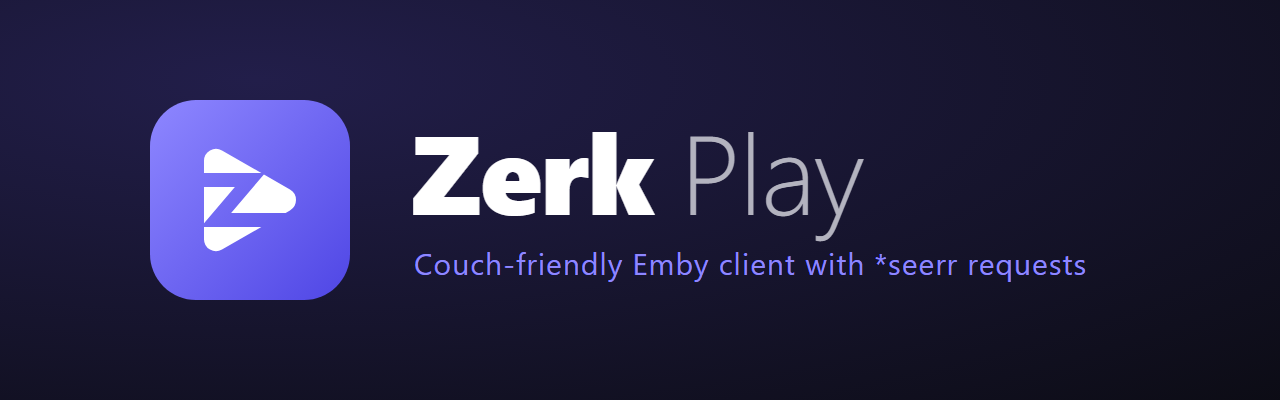
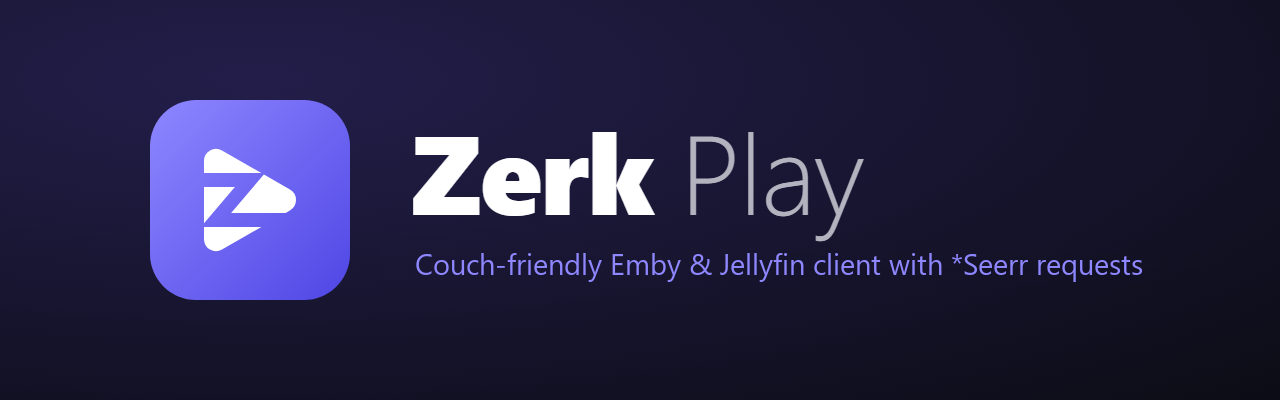
Point the README at the latest release and say *Seerr
The download links went to the first beta. They now open the Releases page, the README no longer calls this the first release, Jellyseerr / Overseerr is now *Seerr throughout, and the banner names Emby & Jellyfin.

Changed region(s): [[0.3125, 0.63, 0.9062, 0.69]]

diff --git a/README.md b/README.md
@@ -4,7 +4,7 @@
 
 <p align="center">
   An Emby / Jellyfin client for <b>Windows</b> and <b>Android TV / Google TV</b>,<br>
-  built around discovery and Jellyseerr / Overseerr requests.
+  built around discovery and *Seerr requests.
 </p>
 
 <p align="center">
@@ -14,16 +14,12 @@
 </p>
 
 <p align="center">
-  <a href="https://github.com/florinp93/Zerk-Play-2.0/releases/download/v2-beta/ZerkPlay-Public-Windows-setup.exe"><b>Download for Windows</b></a>
-  &nbsp;·&nbsp;
-  <a href="https://github.com/florinp93/Zerk-Play-2.0/releases/download/v2-beta/ZerkPlay-Public-Android.apk"><b>Download for Android TV</b></a>
-  &nbsp;·&nbsp;
-  <a href="https://github.com/florinp93/Zerk-Play-2.0/releases">All releases</a>
+  <a href="https://github.com/florinp93/Zerk-Play-2.0/releases"><b>Download the latest release</b></a> for Windows and Android TV
 </p>
 
 ![Home](screenshots/01-home-hero.png)
 
-Zerk Play 2 is a full rewrite, and this is its first public release. It's still in beta, so expect rough edges and please report anything that breaks.
+Zerk Play 2 is a full rewrite and still in beta, so expect rough edges and please report anything that breaks. Installed copies update themselves when a new release is out.
 
 When you open it, it should help you find something to watch, not leave you scrolling a library grid. If what you want isn't on the server yet, you can request it from the same screen.
 
@@ -54,9 +50,9 @@ There's also a **Discover** tab (trending, popular, coming soon), a **Calendar**
 
 ![Discover](screenshots/13-discover.png)
 
-## Requests built in (Jellyseerr / Overseerr)
+## Requests built in (\*Seerr)
 
-Connect Jellyseerr or Overseerr and titles you don't have show up right next to the ones you do:
+Connect \*Seerr and titles you don't have show up right next to the ones you do:
 
 - A **Request** badge on anything not in your library, in every row: home, Discover, search, More like this
 - One **Request** page: pick the seasons, watch the trailer, done
@@ -92,18 +88,18 @@ Add your own Xtream Codes IPTV account to get a proper **TV guide**: channel gro
 
 The whole UI is driven by **D-pad / remote / keyboard** first. It works on Windows too: plug in a gamepad or use the arrow keys, and the mouse cursor hides itself until you move it again. The mouse still works everywhere, with hover and wheel scrolling.
 
-Setup on a TV is painless: **scan a QR code with your phone** and fill in the server, TMDB key and Jellyseerr details there instead of typing with a remote.
+Setup on a TV is painless: **scan a QR code with your phone** and fill in the server, TMDB key and \*Seerr details there instead of typing with a remote.
 
 ![Library](screenshots/20-library-movies.png)
 
 ## Getting started
 
-1. Download the [Windows installer](https://github.com/florinp93/Zerk-Play-2.0/releases/download/v2-beta/ZerkPlay-Public-Windows-setup.exe) or the [Android TV APK](https://github.com/florinp93/Zerk-Play-2.0/releases/download/v2-beta/ZerkPlay-Public-Android.apk).
+1. Open the [latest release](https://github.com/florinp93/Zerk-Play-2.0/releases) (the newest is at the top) and download `ZerkPlay-Public-Windows-setup.exe` for Windows or `ZerkPlay-Public-Android.apk` for Android TV.
 2. On first start, choose **Emby or Jellyfin** and sign in.
 3. *(Optional)* Add a free **TMDB API key** for metadata in your language, tags and collections.
-4. *(Optional)* Add your **Jellyseerr / Overseerr** address and API key for requests.
+4. *(Optional)* Add your **\*Seerr** address and API key for requests.
 
-> The \*seerr address has to be reachable from the device running Zerk Play. Don't use `localhost` unless \*seerr runs on that same machine.
+> The \*Seerr address has to be reachable from the device running Zerk Play. Don't use `localhost` unless \*Seerr runs on that same machine.
 
 ## Good to know
 
@@ -111,6 +107,6 @@ Setup on a TV is painless: **scan a QR code with your phone** and fill in the se
 - The APK isn't on the Play Store: install it with Downloader, Send Files to TV, or adb.
 - Tested on Windows 11 and a Chromecast with Google TV 4K. Other Android TV boxes should work; reports are welcome.
 - You bring your own servers and API keys. Nothing is hardcoded in the public build.
-- Zerk Play is not affiliated with Emby, Jellyfin, Jellyseerr, Overseerr or TMDB.
+- Zerk Play is not affiliated with Emby, Jellyfin, \*Seerr or TMDB.
 
 Feedback, bug reports and feature ideas are very welcome: open an issue or join the Discord.
